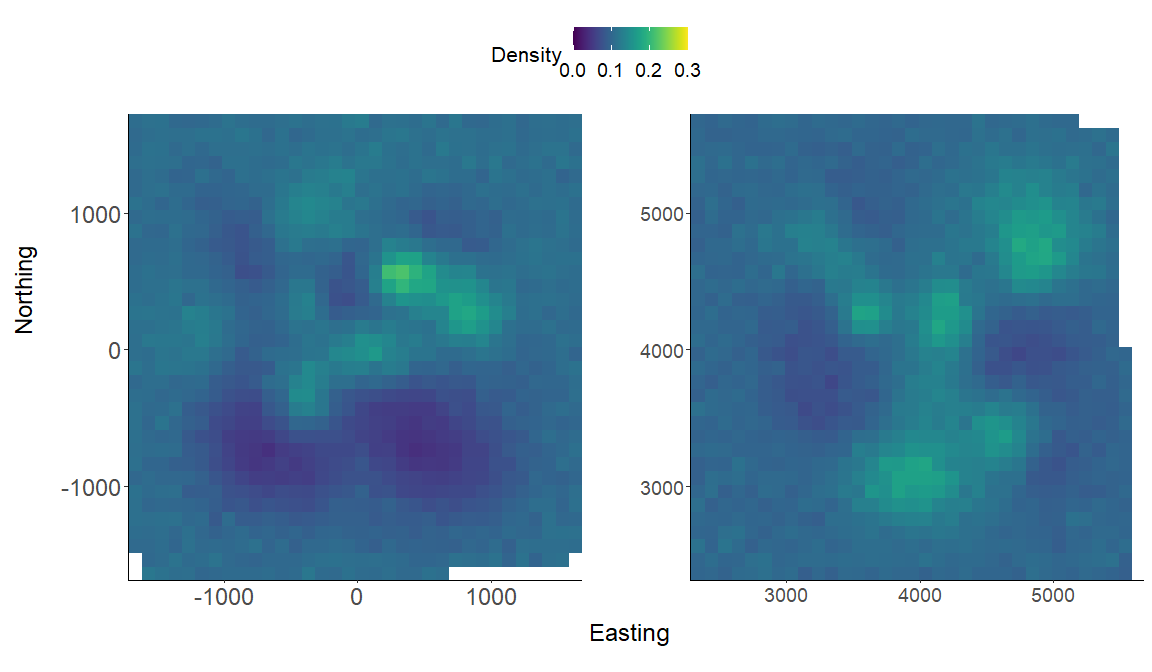
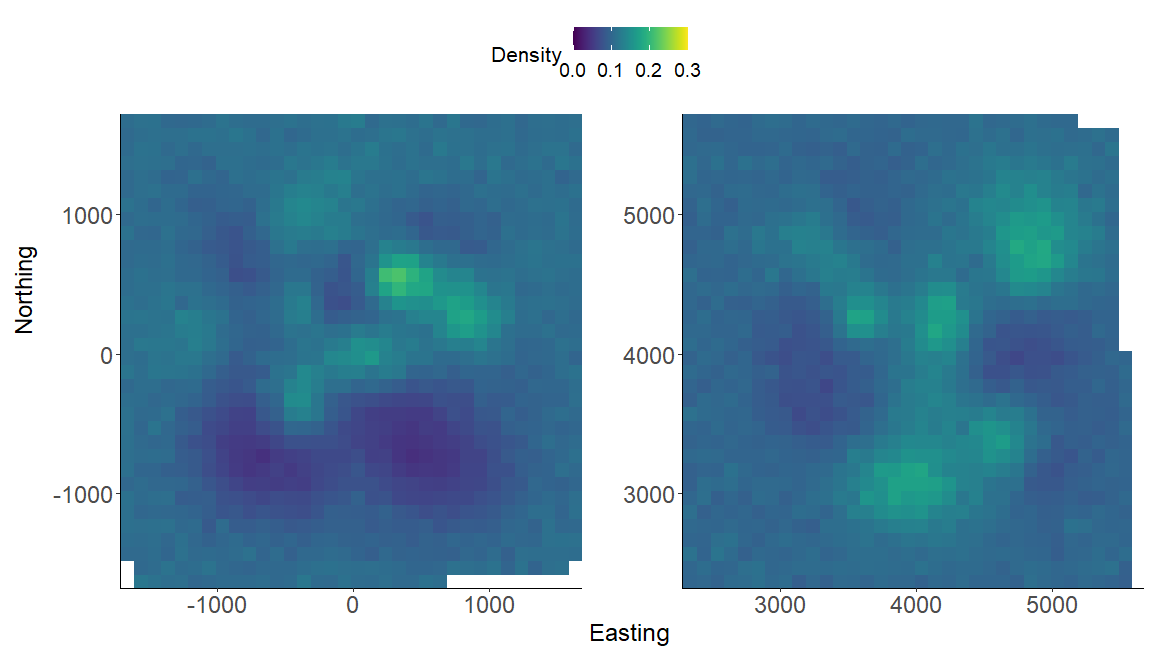
Small correct to final figure in README regarding axis text size.

diff --git a/README.md b/README.md
@@ -44,8 +44,15 @@ You can install the development version of ‘localSCR’ like so:
 ``` r
 library(remotes)
 install_github("sitkensis22/localSCR")
-#> Skipping install of 'localSCR' from a github remote, the SHA1 (32012673) has not changed since last install.
-#>   Use `force = TRUE` to force installation
+#> Downloading GitHub repo sitkensis22/localSCR@HEAD
+#> 
+#> * checking for file 'C:\Users\dreacker\AppData\Local\Temp\RtmpKs8UeC\remotes3d405b4c3cea\sitkensis22-localSCR-f61091a/DESCRIPTION' ... OK
+#> * preparing 'localSCR':
+#> * checking DESCRIPTION meta-information ... OK
+#> * checking for LF line-endings in source and make files and shell scripts
+#> * checking for empty or unneeded directories
+#> * building 'localSCR_0.1.0.tar.gz'
+#> 
 ```
 
 Be sure to see important information about using ‘nimble’ on your
@@ -100,7 +107,7 @@ str(data3d)
 #> List of 3
 #>  $ y  : int [1:200, 1:25, 1:4] 0 0 0 0 0 0 0 0 0 0 ...
 #>  $ sex: int [1:200] 1 1 1 1 1 1 1 1 1 1 ...
-#>  $ s  : num [1:200, 1:2] 709.8 -219.3 -1034 909.8 39.5 ...
+#>  $ s  : num [1:200, 1:2] 718.5 -210 -1024 918.3 48.6 ...
 #>   ..- attr(*, "dimnames")=List of 2
 #>   .. ..$ : NULL
 #>   .. ..$ : chr [1:2] "sx" "sy"
@@ -212,7 +219,7 @@ tic() # track time elapsed
 out = run_classic(model = scr_model, data=data, constants=constants,
 inits=inits, params = params,niter = 10000, nburnin=1000, thin=1, nchains=2, parallel=TRUE, RNGseed = 500)
 toc()
-#> 128.75 sec elapsed
+#> 129.03 sec elapsed
 
 # summarize output
 samples = do.call(rbind, out)
@@ -362,7 +369,7 @@ out = run_classic(model = scr_model, data=data, constants=constants,
 inits=inits, params = params,niter = 10000, nburnin=1000, thin=1, nchains=2, 
 parallel=TRUE, RNGseed = 500)
 toc()
-#> 131.22 sec elapsed
+#> 135.43 sec elapsed
 
 # summary table of MCMC output (exclude "s" and "z" parameters)
 nimSummary(out, exclude_params = c("s","z"), trace = TRUE, plot_all = FALSE)
@@ -419,7 +426,7 @@ p2<-gplot(r[[2]]) + geom_raster(aes(fill = value)) +
           xlab("") + ylab("") + theme_classic() + 
           scale_x_continuous(expand=c(0, 0)) + 
           scale_y_continuous(expand=c(0, 0)) + 
-          theme(text = element_text(size=18))
+          theme(axis.text = element_text(size=18))
 
 # arrange the two plots in a single row
 prow <- plot_grid(p1 + theme(legend.position="none"),
